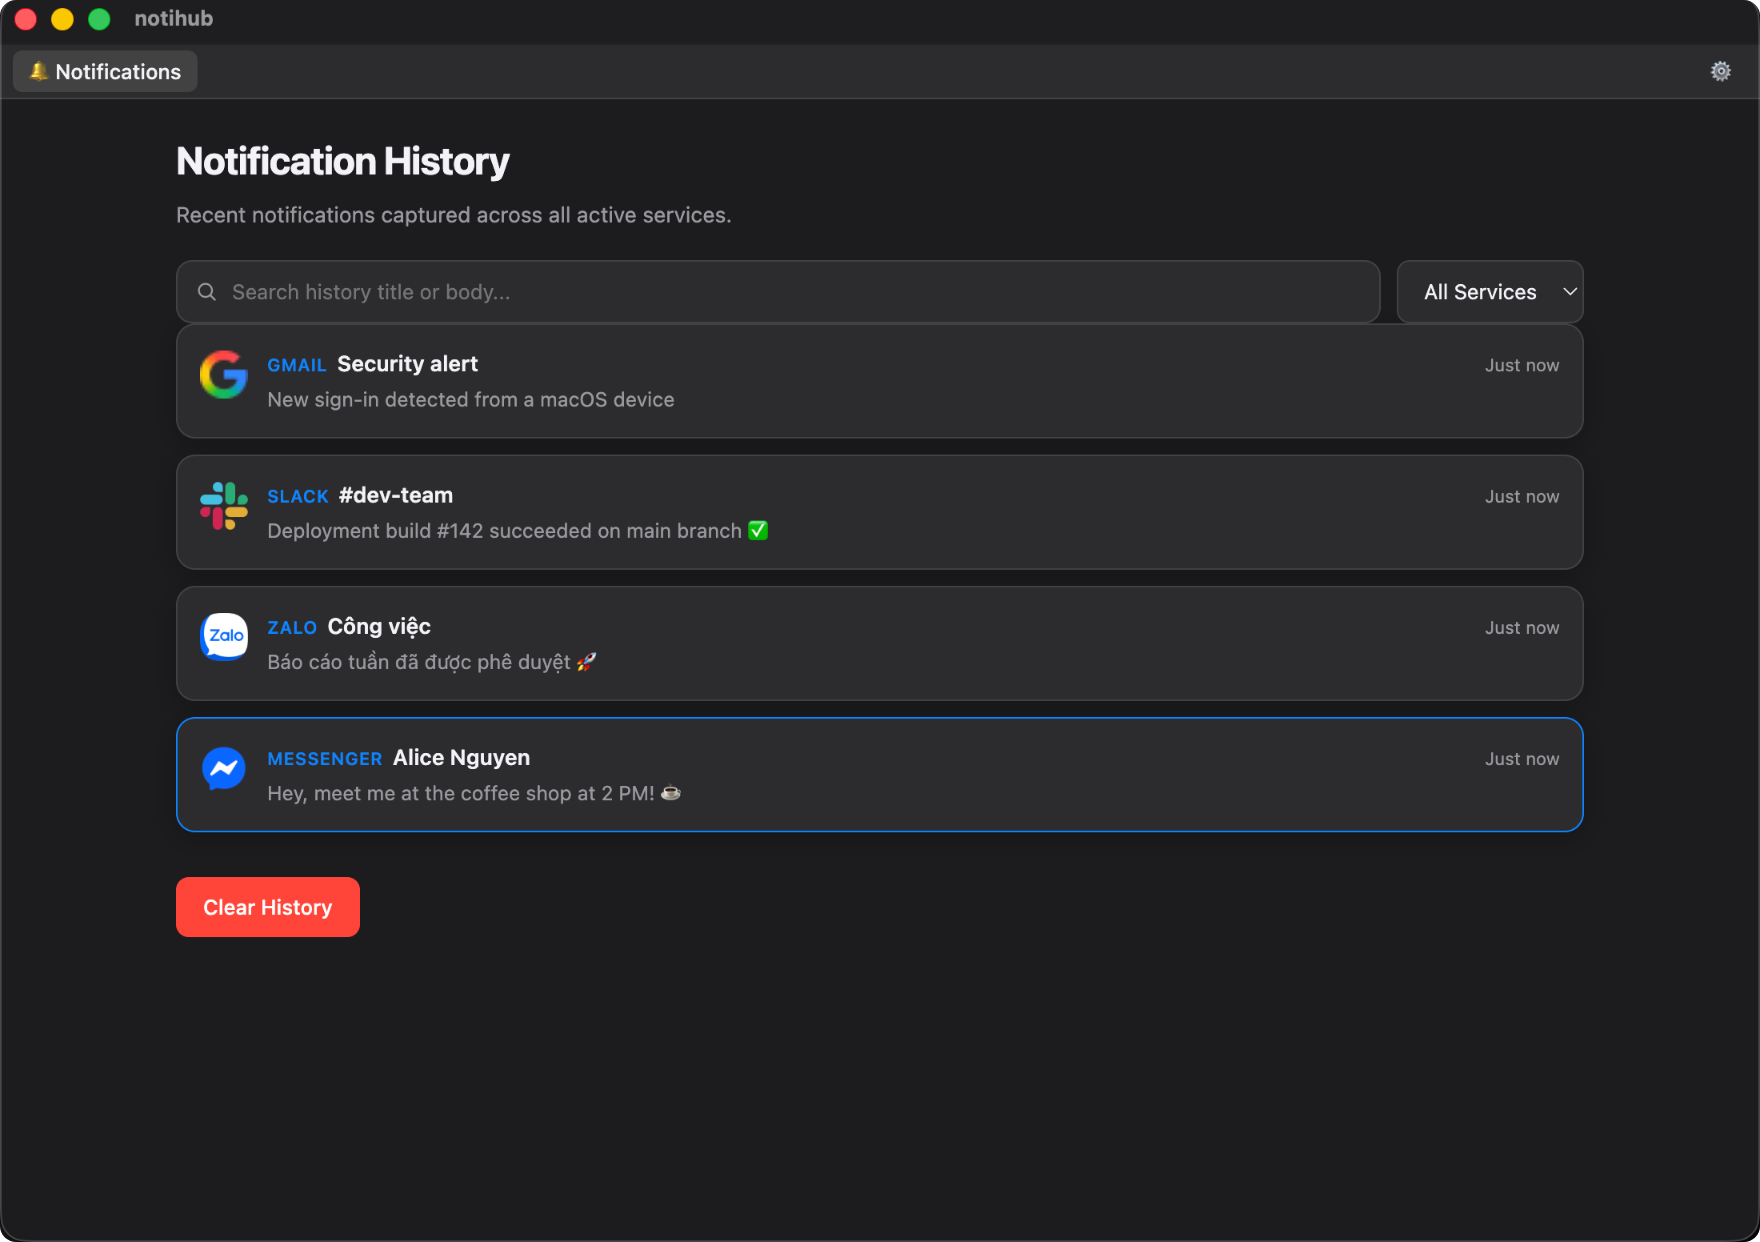
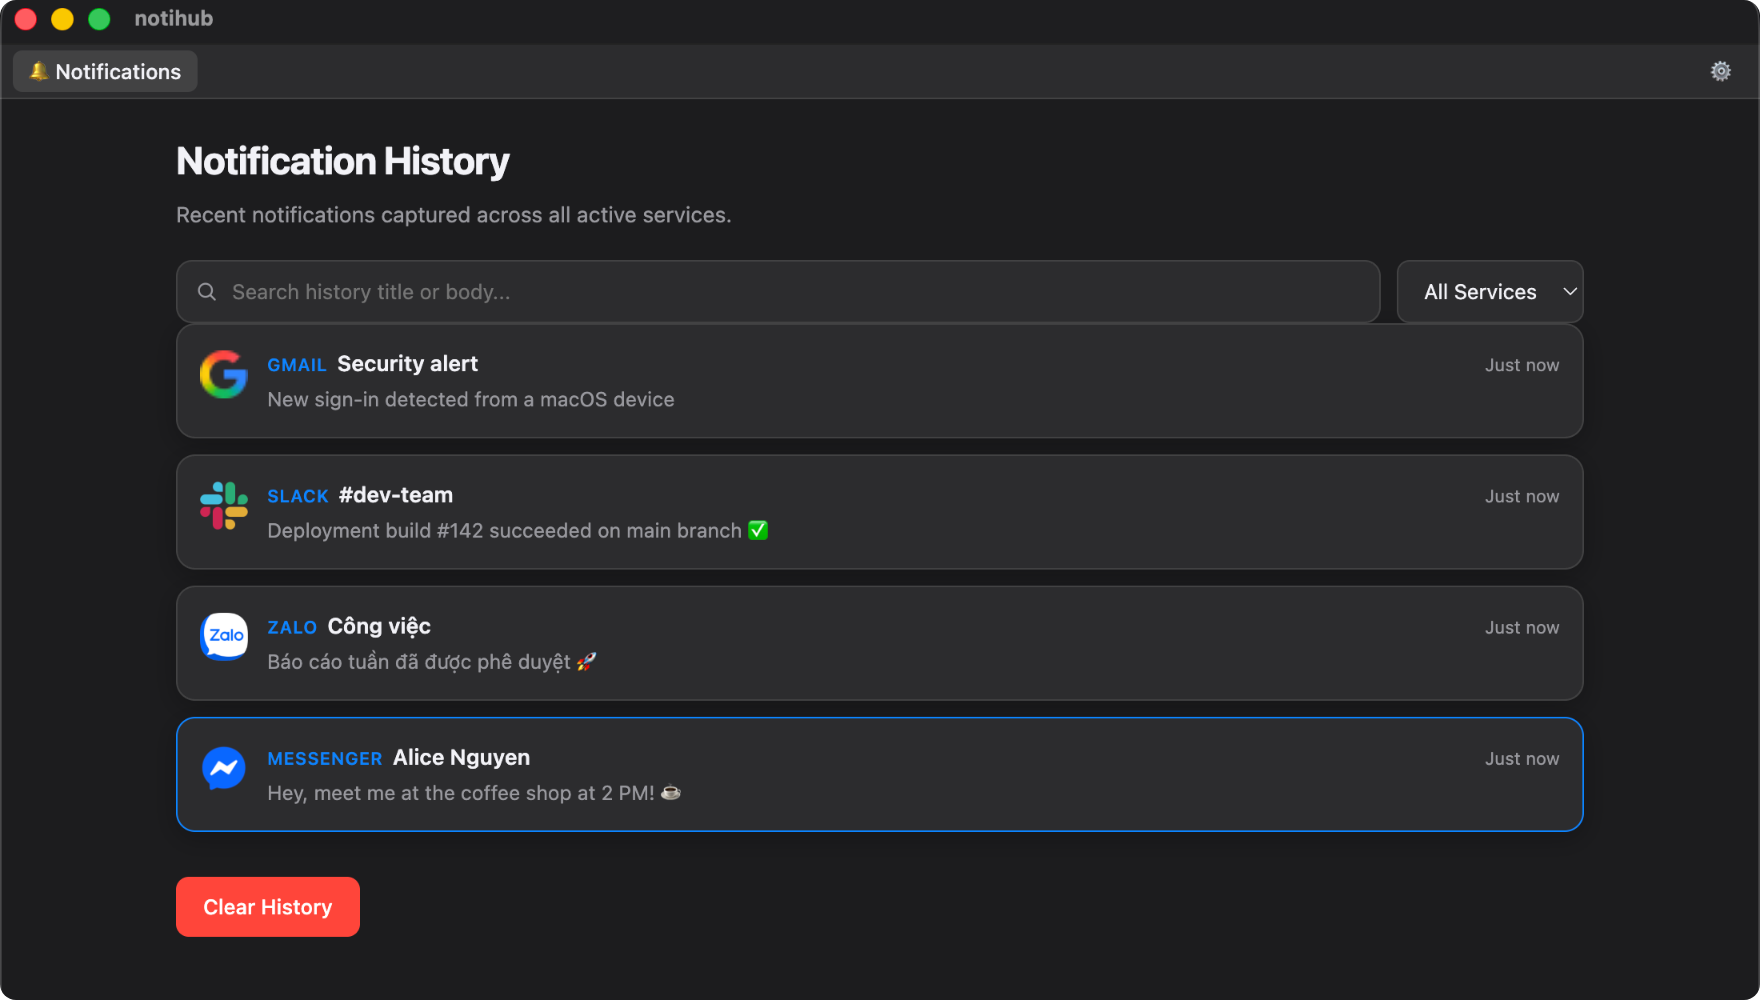
feat: move app screenshots out of feature cards into a full-width Modes section
The feature-card thumbnails could not be fixed by tuning object-fit, because
the constraint is arithmetic: these are captures of a 1100pt-wide app window,
so the app's own 13px UI text sits at ~21px inside the 1760px asset. A
4-column card gives an image ~200px of width, rendering that text at 2.4px.
Even a 2-column layout (530px) only reaches 6.3px. Legibility needs ~850px of
display width, which no card in a multi-column grid can provide.

So the thumbnails are gone and feature cards are text-only — a clean 8-card
grid — while the screenshots moved to where they have room:

- New #modes section: "Message right from the menu bar" pairs copy with the
  portrait Menu Bar Panel capture at 360px (the panel is only 420pt wide, so
  its text lands at 11.2px), and Minimal Mode gets a full-width 900px shot
  (10.6px). Both verified above the 10px legibility floor.
- Both screens also added as gallery slides, where the carousel's 860px is
  likewise legible.
- Trimmed the empty lower quarter off the Minimal Mode capture and re-applied
  the window corner radius so the crop doesn't read as sliced.

Dropped four screenshots orphaned by the change; the gallery already covers
those screens. Also fixes .mode-shot--tall collapsing to zero width:
justify-self:center makes a grid item shrink-to-fit, which leaves a
width:100% child with no definite width to resolve against.

diff --git a/index.html b/index.html
@@ -55,6 +55,7 @@
 
     <ul class="nav-links" id="nav-links">
       <li><a href="#features">Features</a></li>
+      <li><a href="#modes">Modes</a></li>
       <li><a href="#screenshots">Screenshots</a></li>
       <li><a href="#services">Services</a></li>
       <li><a href="#install">Install</a></li>
@@ -164,7 +165,7 @@
     <div class="section-header reveal">
       <div class="section-label"><span aria-hidden="true">✦</span> Key Features</div>
       <h2 class="section-title">Everything you need,<br /><span class="grad-text">nothing you don't.</span></h2>
-      <p class="section-desc">Packed with power-user features while staying lightweight. Hover any card for a look at the real interface.</p>
+      <p class="section-desc">Packed with power-user features while staying lightweight — and every screen below is the real app.</p>
     </div>
 
     <div class="features-grid">
@@ -173,102 +174,102 @@
         <span class="feature-icon" aria-hidden="true">🪟</span>
         <h3 class="feature-title">Dynamic Window Modes</h3>
         <p class="feature-desc">Switch between <strong>Standard Window</strong> (resizable, with a Dock icon) and <strong>Menu Bar Panel</strong> (frameless popup under the status bar) straight from Settings.</p>
-        <div class="feature-screenshot">
-          <img src="images/screenshot-window-modes.png" width="1760" height="1242" loading="lazy"
-               alt="Settings showing App Mode, Window Mode and Global Toggle Hotkey controls" />
-        </div>
       </div>
 
       <div class="feature-card reveal reveal-delay-2" id="feature-notifications" tabindex="0">
         <span class="feature-icon" aria-hidden="true">🔔</span>
         <h3 class="feature-title">True Native Notifications</h3>
         <p class="feature-desc">Messages go through <strong>macOS Notification Center</strong> — respecting Focus and Do Not Disturb — and every one is kept in a searchable in-app history with its service icon.</p>
-        <div class="feature-screenshot">
-          <img src="images/screenshot-notifications.png" width="1760" height="1242" loading="lazy"
-               alt="Notification history with entries from Messenger, Zalo, Gmail, Slack and Telegram" />
-        </div>
       </div>
 
       <div class="feature-card reveal reveal-delay-3" id="feature-ram" tabindex="0">
         <span class="feature-icon" aria-hidden="true">💤</span>
         <h3 class="feature-title">Smart RAM Auto-Sleep</h3>
         <p class="feature-desc">Unloads a background tab's memory after it has been idle for 5 to 60 minutes — your choice. Switching back reconnects it instantly.</p>
-        <div class="feature-screenshot">
-          <img src="images/screenshot-ram-optimization.png" width="1760" height="1242" loading="lazy"
-               alt="Performance settings with background throttling and auto-sleep idle presets" />
-        </div>
       </div>
 
       <div class="feature-card reveal reveal-delay-4" id="feature-dnd" tabindex="0">
         <span class="feature-icon" aria-hidden="true">🌙</span>
         <h3 class="feature-title">Scheduled Quiet Hours</h3>
         <p class="feature-desc">Silence everything on demand, or set recurring quiet-hours windows by day and time. Messages matching a service's <strong>Priority</strong> filter still come through.</p>
-        <div class="feature-screenshot">
-          <img src="images/screenshot-dnd.png" width="1760" height="1242" loading="lazy"
-               alt="Do Not Disturb settings with a 22:00 to 08:00 weekday quiet-hours window" />
-        </div>
       </div>
 
       <div class="feature-card reveal reveal-delay-1" id="feature-multi-service" tabindex="0">
         <span class="feature-icon" aria-hidden="true">🌐</span>
         <h3 class="feature-title">8 Apps + Custom URLs</h3>
         <p class="feature-desc">Works out of the box with Messenger, Zalo, Gmail, Outlook, Slack, Discord, Telegram and WhatsApp — plus <strong>any custom web URL</strong>.</p>
-        <div class="feature-screenshot">
-          <img src="images/screenshot-services.png" width="1760" height="1242" loading="lazy"
-               alt="Add Services grid with the eight built-in presets and a custom web app form" />
-        </div>
       </div>
 
       <div class="feature-card reveal reveal-delay-2" id="feature-status" tabindex="0">
         <span class="feature-icon" aria-hidden="true">🚦</span>
         <h3 class="feature-title">Status &amp; Auto-Recovery</h3>
         <p class="feature-desc">Every service shows whether it is really connected, gone quiet, or needs sign-in — and a hung or crashed tab reloads itself with exponential backoff.</p>
-        <div class="feature-screenshot">
-          <img src="images/screenshot-manage.png" width="1760" height="1242" loading="lazy"
-               alt="Manage tab showing per-service connection status, sound and badge switches, and regex filters" />
-        </div>
       </div>
 
       <div class="feature-card reveal reveal-delay-3" id="feature-hotkeys" tabindex="0">
         <span class="feature-icon" aria-hidden="true">⌨</span>
         <h3 class="feature-title">Hotkeys &amp; CLI Companion</h3>
         <p class="feature-desc">Set any <strong>global hotkey</strong> (default <kbd>⌘⇧Space</kbd>) to show or hide Notihub from anywhere. A <code>notihub</code> CLI handles scripting and automation.</p>
-        <div class="feature-screenshot">
-          <img src="images/screenshot-hotkeys.png" width="1760" height="1242" loading="lazy"
-               alt="Global Toggle Hotkey setting showing Cmd+Shift+Space" />
-        </div>
       </div>
 
       <div class="feature-card reveal reveal-delay-4" id="feature-onboarding" tabindex="0">
         <span class="feature-icon" aria-hidden="true">🚀</span>
         <h3 class="feature-title">Set Up in One Screen</h3>
         <p class="feature-desc">One prompt for notification permission, one switch for launch at login, then pick your apps. No account, no sign-up, no telemetry.</p>
-        <div class="feature-screenshot">
-          <img src="images/screenshot-welcome.png" width="1760" height="1242" loading="lazy"
-               alt="Welcome screen with notification permission and launch-at-login controls" />
-        </div>
       </div>
 
-      <div class="feature-card reveal reveal-delay-1" id="feature-menubar-chat" tabindex="0">
-        <span class="feature-icon" aria-hidden="true">💬</span>
-        <h3 class="feature-title">Message Right From the Menu Bar</h3>
-        <p class="feature-desc">The Menu Bar Panel isn't just for alerts — click a service tab and it opens <strong>full-page, live</strong>, right inside the compact popup. Reply without ever opening a full window.</p>
-        <div class="feature-screenshot is-tall">
-          <img src="images/screenshot-menubar-chat.png" width="669" height="989" loading="lazy"
-               alt="Menu Bar Panel with Messenger open full-page inside the compact popup" />
-        </div>
-      </div>
+    </div>
+  </div>
+</section>
 
-      <div class="feature-card reveal reveal-delay-2" id="feature-minimal" tabindex="0">
-        <span class="feature-icon" aria-hidden="true">🪶</span>
-        <h3 class="feature-title">Minimal Mode</h3>
-        <p class="feature-desc">Don't want a tab strip at all? <strong>Minimal Mode</strong> strips the window down to just the notification board and a settings toggle — services still run and notify in the background.</p>
-        <div class="feature-screenshot">
-          <img src="images/screenshot-minimal.png" width="1760" height="1242" loading="lazy"
-               alt="Minimal Mode showing only the notification history with no tab strip" />
-        </div>
-      </div>
 
+<!-- ════════════════════════════════════════
+     MODES SPOTLIGHT
+     Screenshots of a 1100pt-wide app window need ~850px of display width
+     before their UI text is legible, so these live here at full width
+     instead of as thumbnails inside the feature grid.
+════════════════════════════════════════ -->
+<section class="modes" id="modes">
+  <div class="container">
+    <div class="section-header reveal">
+      <div class="section-label"><span aria-hidden="true">🪟</span> Ways to run it</div>
+      <h2 class="section-title">Your whole inbox,<br /><span class="grad-text">out of your way.</span></h2>
+      <p class="section-desc">Notihub doesn't have to be a window you manage. Run it from the menu bar, or strip it back to notifications only.</p>
+    </div>
+
+    <div class="mode-row reveal">
+      <div class="mode-text">
+        <h3 class="mode-title"><span aria-hidden="true">💬</span> Message right from the menu bar</h3>
+        <p class="mode-desc">
+          The Menu Bar Panel isn't just an alert list. Click a service tab and it loads
+          <strong>full-page and live</strong> inside the popup — read and reply without
+          ever opening a full window, then click away to dismiss it.
+        </p>
+        <ul class="mode-points">
+          <li>Frameless panel anchored under your status bar</li>
+          <li>Every service tab, unread badges and all</li>
+          <li>Toggle it from anywhere with <kbd>⌘⇧Space</kbd></li>
+        </ul>
+      </div>
+      <div class="mode-shot mode-shot--tall">
+        <img src="images/screenshot-menubar-chat.png" width="669" height="989" loading="lazy"
+             alt="Menu Bar Panel with Messenger loaded full-page inside the compact popup" />
+      </div>
+    </div>
+
+    <div class="mode-block reveal">
+      <div class="mode-text mode-text--center">
+        <h3 class="mode-title"><span aria-hidden="true">🪶</span> Minimal Mode</h3>
+        <p class="mode-desc">
+          Don't want a tab strip at all? Minimal Mode strips the window down to just the
+          notification board and a settings toggle. Your services keep running and
+          notifying in the background — you only ever see what came in.
+        </p>
+      </div>
+      <div class="mode-shot mode-shot--wide">
+        <img src="images/screenshot-minimal.png" width="1760" height="1000" loading="lazy"
+             alt="Minimal Mode showing only the notification history, with no tab strip" />
+      </div>
     </div>
   </div>
 </section>
@@ -323,10 +324,20 @@
                  alt="Performance settings with background throttling and auto-sleep idle presets" />
             <p class="carousel-caption">Performance — auto-sleep idle tabs anywhere from 5 to 60 minutes</p>
           </div>
-          <div class="carousel-slide" role="group" aria-roledescription="slide" aria-label="8 of 8">
+          <div class="carousel-slide" role="group" aria-roledescription="slide" aria-label="8 of 10">
             <img src="images/screenshot-webapp.png" width="1760" height="1242" loading="lazy"
                  alt="Telegram Web running inside a Notihub tab alongside Messenger, Zalo, Gmail and Slack" />
             <p class="carousel-caption">Web App View — each service in its own tab, logged in once</p>
+          </div>
+          <div class="carousel-slide carousel-slide--tall" role="group" aria-roledescription="slide" aria-label="9 of 10">
+            <img src="images/screenshot-menubar-chat.png" width="669" height="989" loading="lazy"
+                 alt="Menu Bar Panel with Messenger loaded full-page inside the compact popup" />
+            <p class="carousel-caption">Menu Bar Panel — services open full-page inside the popup, not just alerts</p>
+          </div>
+          <div class="carousel-slide" role="group" aria-roledescription="slide" aria-label="10 of 10">
+            <img src="images/screenshot-minimal.png" width="1760" height="1000" loading="lazy"
+                 alt="Minimal Mode showing only the notification history, with no tab strip" />
+            <p class="carousel-caption">Minimal Mode — notifications only, no tab strip to manage</p>
           </div>
         </div>
       </div>

diff --git a/styles.css b/styles.css
@@ -611,51 +611,102 @@ section { position: relative; z-index: 1; }
   line-height: 1.65;
 }
 
-/* Collapsed until hover/focus on pointer devices. Touch devices get no hover
-   event at all, so the reveal is dropped entirely below (see the media query at
-   the end) and the screenshot is simply always shown there. */
-.feature-screenshot {
-  margin-top: 18px;
-  border-radius: var(--radius-md);
-  overflow: hidden;
-  border: 1px solid var(--border);
-  max-height: 0;
-  transition: max-height 0.4s cubic-bezier(0.4,0,0.2,1), opacity 0.3s;
-  opacity: 0;
+/* Feature cards are text-only by design. They used to hold a hover-revealed
+   thumbnail, but these screenshots are of a 1100pt-wide app window: at the
+   ~200px a 4-column card gives them, the app's own 13px UI text renders at
+   about 2px. No amount of object-fit tuning makes that readable, so the
+   screenshots moved to .modes and the gallery, where they get the ~850px of
+   width they actually need. */
+
+/* ── Modes Spotlight ── */
+.modes {
+  padding: 100px 0;
 }
 
-.feature-card:hover .feature-screenshot,
-.feature-card:focus-visible .feature-screenshot,
-.feature-card:focus-within .feature-screenshot {
-  /* A generous ceiling, not a target — actual height is set by the image's own
-     aspect-ratio below, so this only needs to never be the thing that clips it. */
-  max-height: 500px;
-  opacity: 1;
+.mode-row {
+  display: grid;
+  grid-template-columns: 1fr 360px;
+  gap: 56px;
+  align-items: center;
+  margin-bottom: 72px;
 }
 
-/* aspect-ratio matches the real captured window screenshots (1760x1242).
-   The previous fixed max-height:220px forced object-fit:cover to crop ~35%
-   off both the left and right of every image to fill a near-square box from
-   a landscape source — slicing straight through button labels and settings
-   rows. Sizing the box to the source's own ratio means cover has nothing
-   left to crop; the full frame just scales down intact. */
-.feature-screenshot img {
+.mode-block {
+  display: flex;
+  flex-direction: column;
+  align-items: center;
+}
+
+.mode-title {
+  display: flex;
+  align-items: center;
+  gap: 10px;
+  font-size: 24px;
+  font-weight: 800;
+  letter-spacing: -0.6px;
+  margin-bottom: 14px;
+}
+
+.mode-desc {
+  font-size: 15.5px;
+  color: var(--text-secondary);
+  line-height: 1.75;
+  margin-bottom: 20px;
+}
+
+.mode-text--center {
+  text-align: center;
+  max-width: 620px;
+  margin: 0 auto 34px;
+}
+.mode-text--center .mode-title { justify-content: center; }
+.mode-text--center .mode-desc { margin-bottom: 0; }
+
+.mode-points {
+  list-style: none;
+  display: flex;
+  flex-direction: column;
+  gap: 10px;
+}
+
+.mode-points li {
+  position: relative;
+  padding-left: 26px;
+  font-size: 14.5px;
+  color: var(--text-secondary);
+}
+
+.mode-points li::before {
+  content: '✓';
+  position: absolute;
+  left: 0;
+  color: var(--accent-blue);
+  font-weight: 700;
+}
+
+.mode-shot img {
   width: 100%;
-  /* The width/height HTML attributes (kept for CLS) give the browser a
-     definite height on their own via the UA stylesheet's attr()-mapping —
-     aspect-ratio only fills in a dimension left auto, so without this explicit
-     override it has nothing to compute and the attribute height (1242px) wins
-     outright, which is the bug this rule exists to prevent. */
-  height: auto;
+  height: auto;          /* beats the width/height attributes' implied height */
   display: block;
-  aspect-ratio: 1760 / 1242;
-  object-fit: cover;
-  object-position: top;
+  border-radius: var(--radius-md);
 }
 
-/* Portrait captures (Menu Bar Panel) — same reasoning, different ratio. */
-.feature-screenshot.is-tall img {
-  aspect-ratio: 669 / 989;
+/* width, not justify-self:center — centering makes the grid item shrink-to-fit,
+   and a shrink-to-fit parent gives the width:100% image no definite width to
+   resolve against, collapsing the whole thing to zero. */
+.mode-shot--tall {
+  width: 100%;
+  max-width: 360px;
+  margin: 0 auto;
+  filter: drop-shadow(0 24px 48px rgba(0,0,0,0.55));
+}
+
+/* Full container width — below roughly 850px this window's UI text stops
+   being readable, which is the whole reason this section exists. */
+.mode-shot--wide {
+  width: 100%;
+  max-width: 900px;
+  filter: drop-shadow(0 24px 48px rgba(0,0,0,0.5));
 }
 
 /* ── Screenshots Gallery ── */
@@ -1149,6 +1200,17 @@ section { position: relative; z-index: 1; }
   .nav-mobile-toggle { display: flex; }
   .carousel-slide { height: 380px; }
 
+  /* Stack the menu bar row; the portrait shot goes above its copy rather than
+     shrinking into a column too narrow to read. */
+  .mode-row {
+    grid-template-columns: 1fr;
+    gap: 32px;
+    margin-bottom: 56px;
+  }
+  .mode-row .mode-text { order: 2; }
+  .mode-row .mode-shot { order: 1; }
+  .mode-title { font-size: 21px; }
+
   /* Collapsed drop-down menu (was injected from script.js at runtime, which
      meant a flash of the desktop nav before the stylesheet existed). */
   .nav-links {
@@ -1196,17 +1258,6 @@ section { position: relative; z-index: 1; }
     object-position: center top;
   }
   .carousel-caption { padding: 26px 16px 14px; font-size: 12px; }
-}
-
-/* A screenshot that only appears on :hover is a screenshot a touch user never
-   sees. On hover-less pointers, and on any narrow layout where the cards are
-   full-width anyway, it is simply always open. */
-@media (hover: none), (max-width: 900px) {
-  .feature-screenshot {
-    max-height: 500px;
-    opacity: 1;
-    transition: none;
-  }
 }
 
 /* ── Reduced motion ── */
